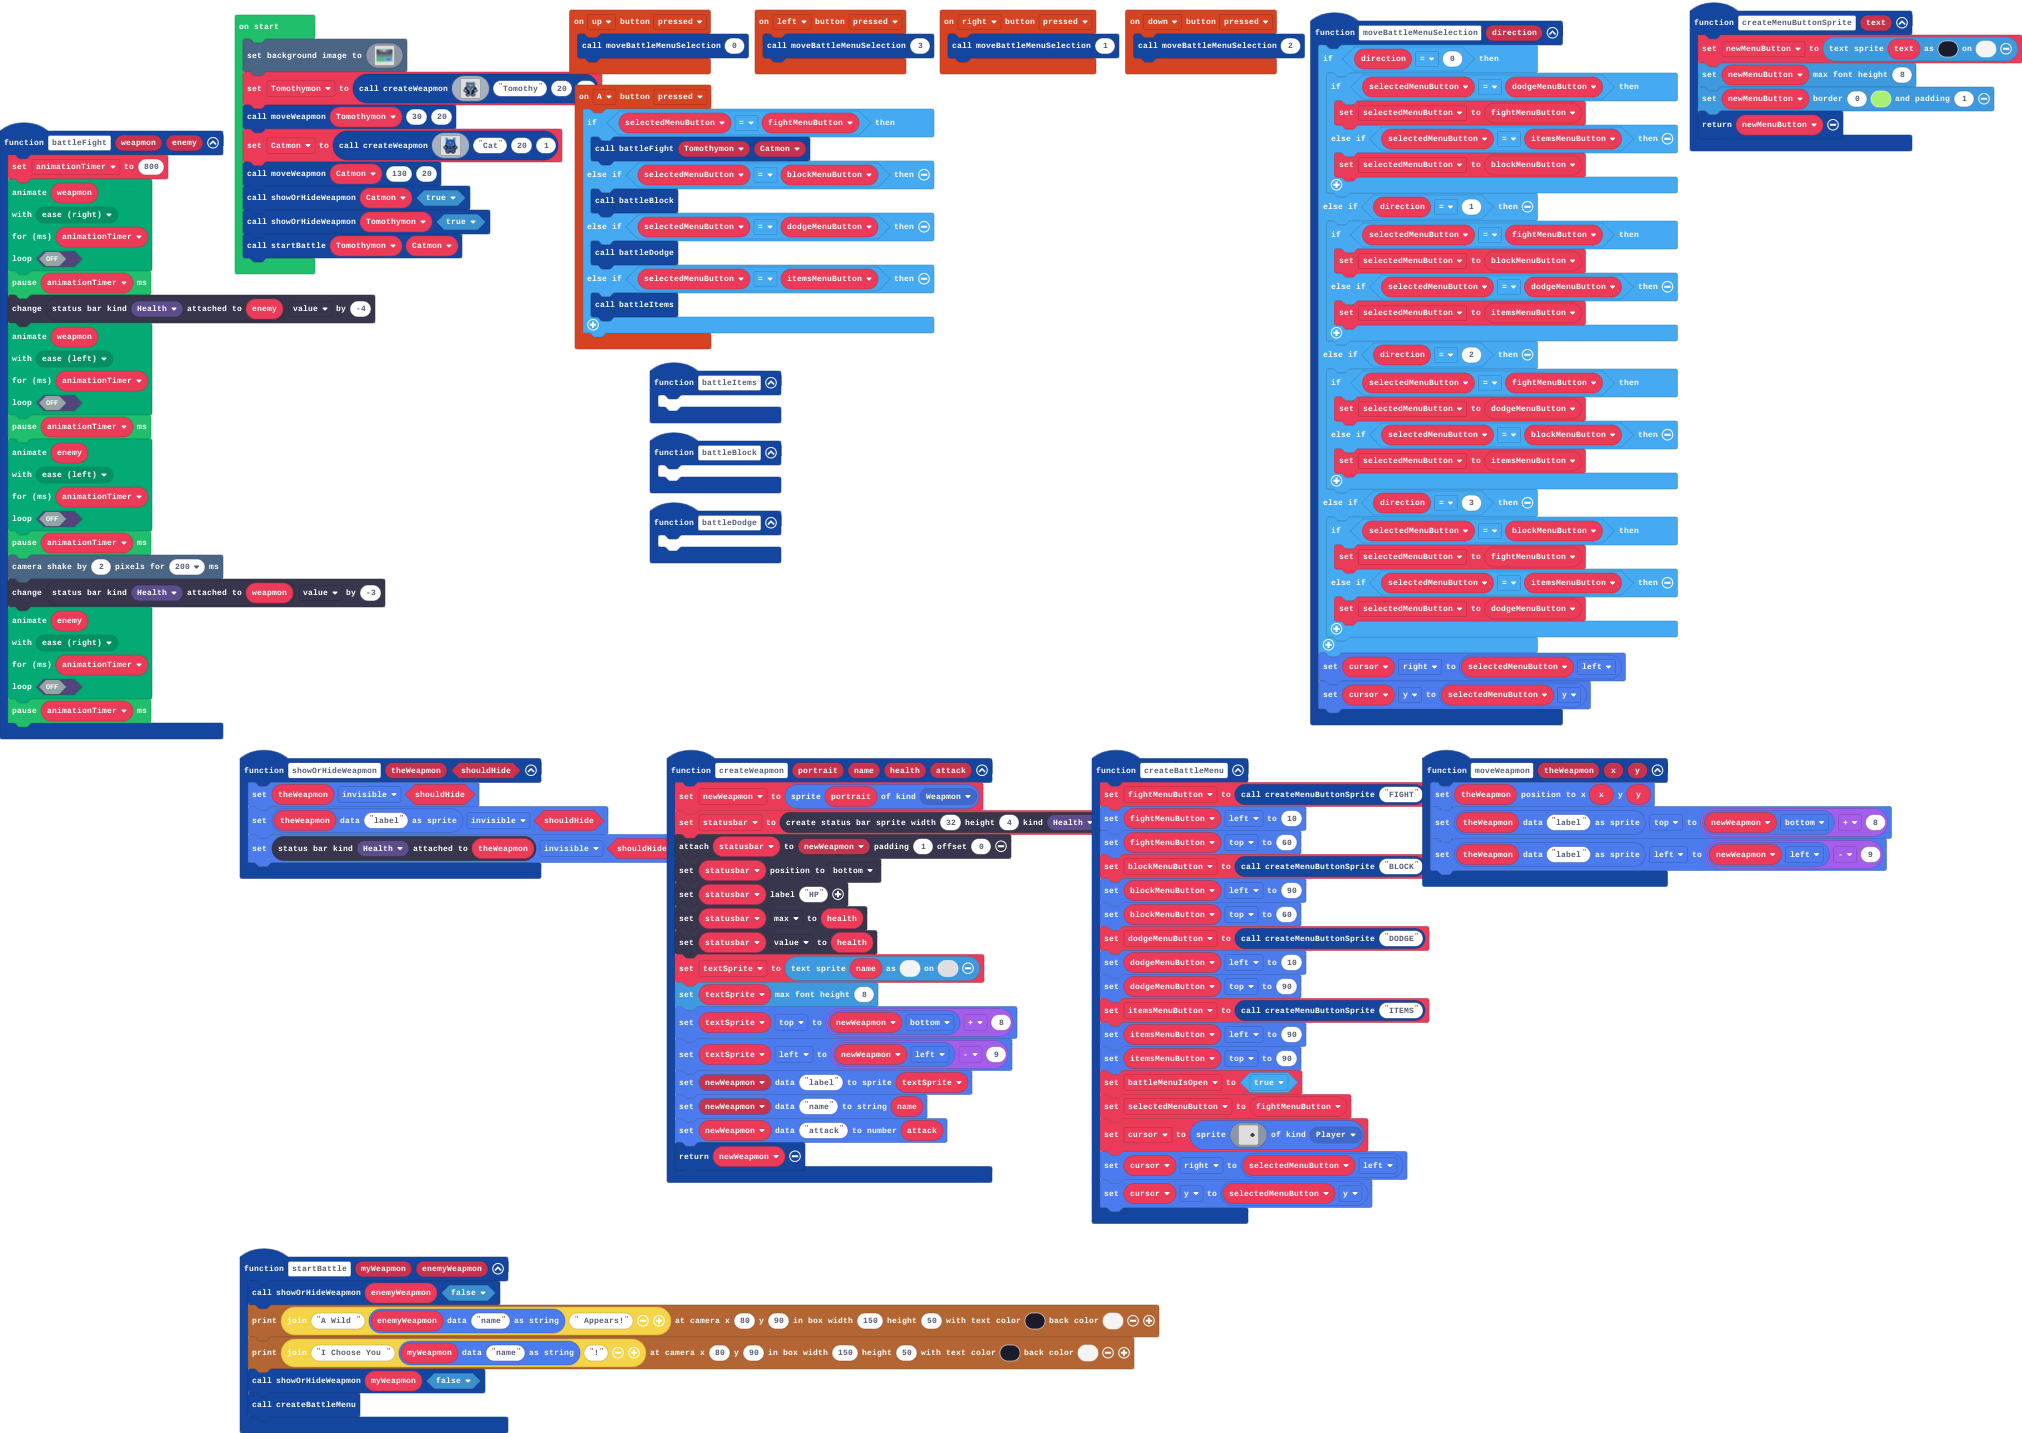
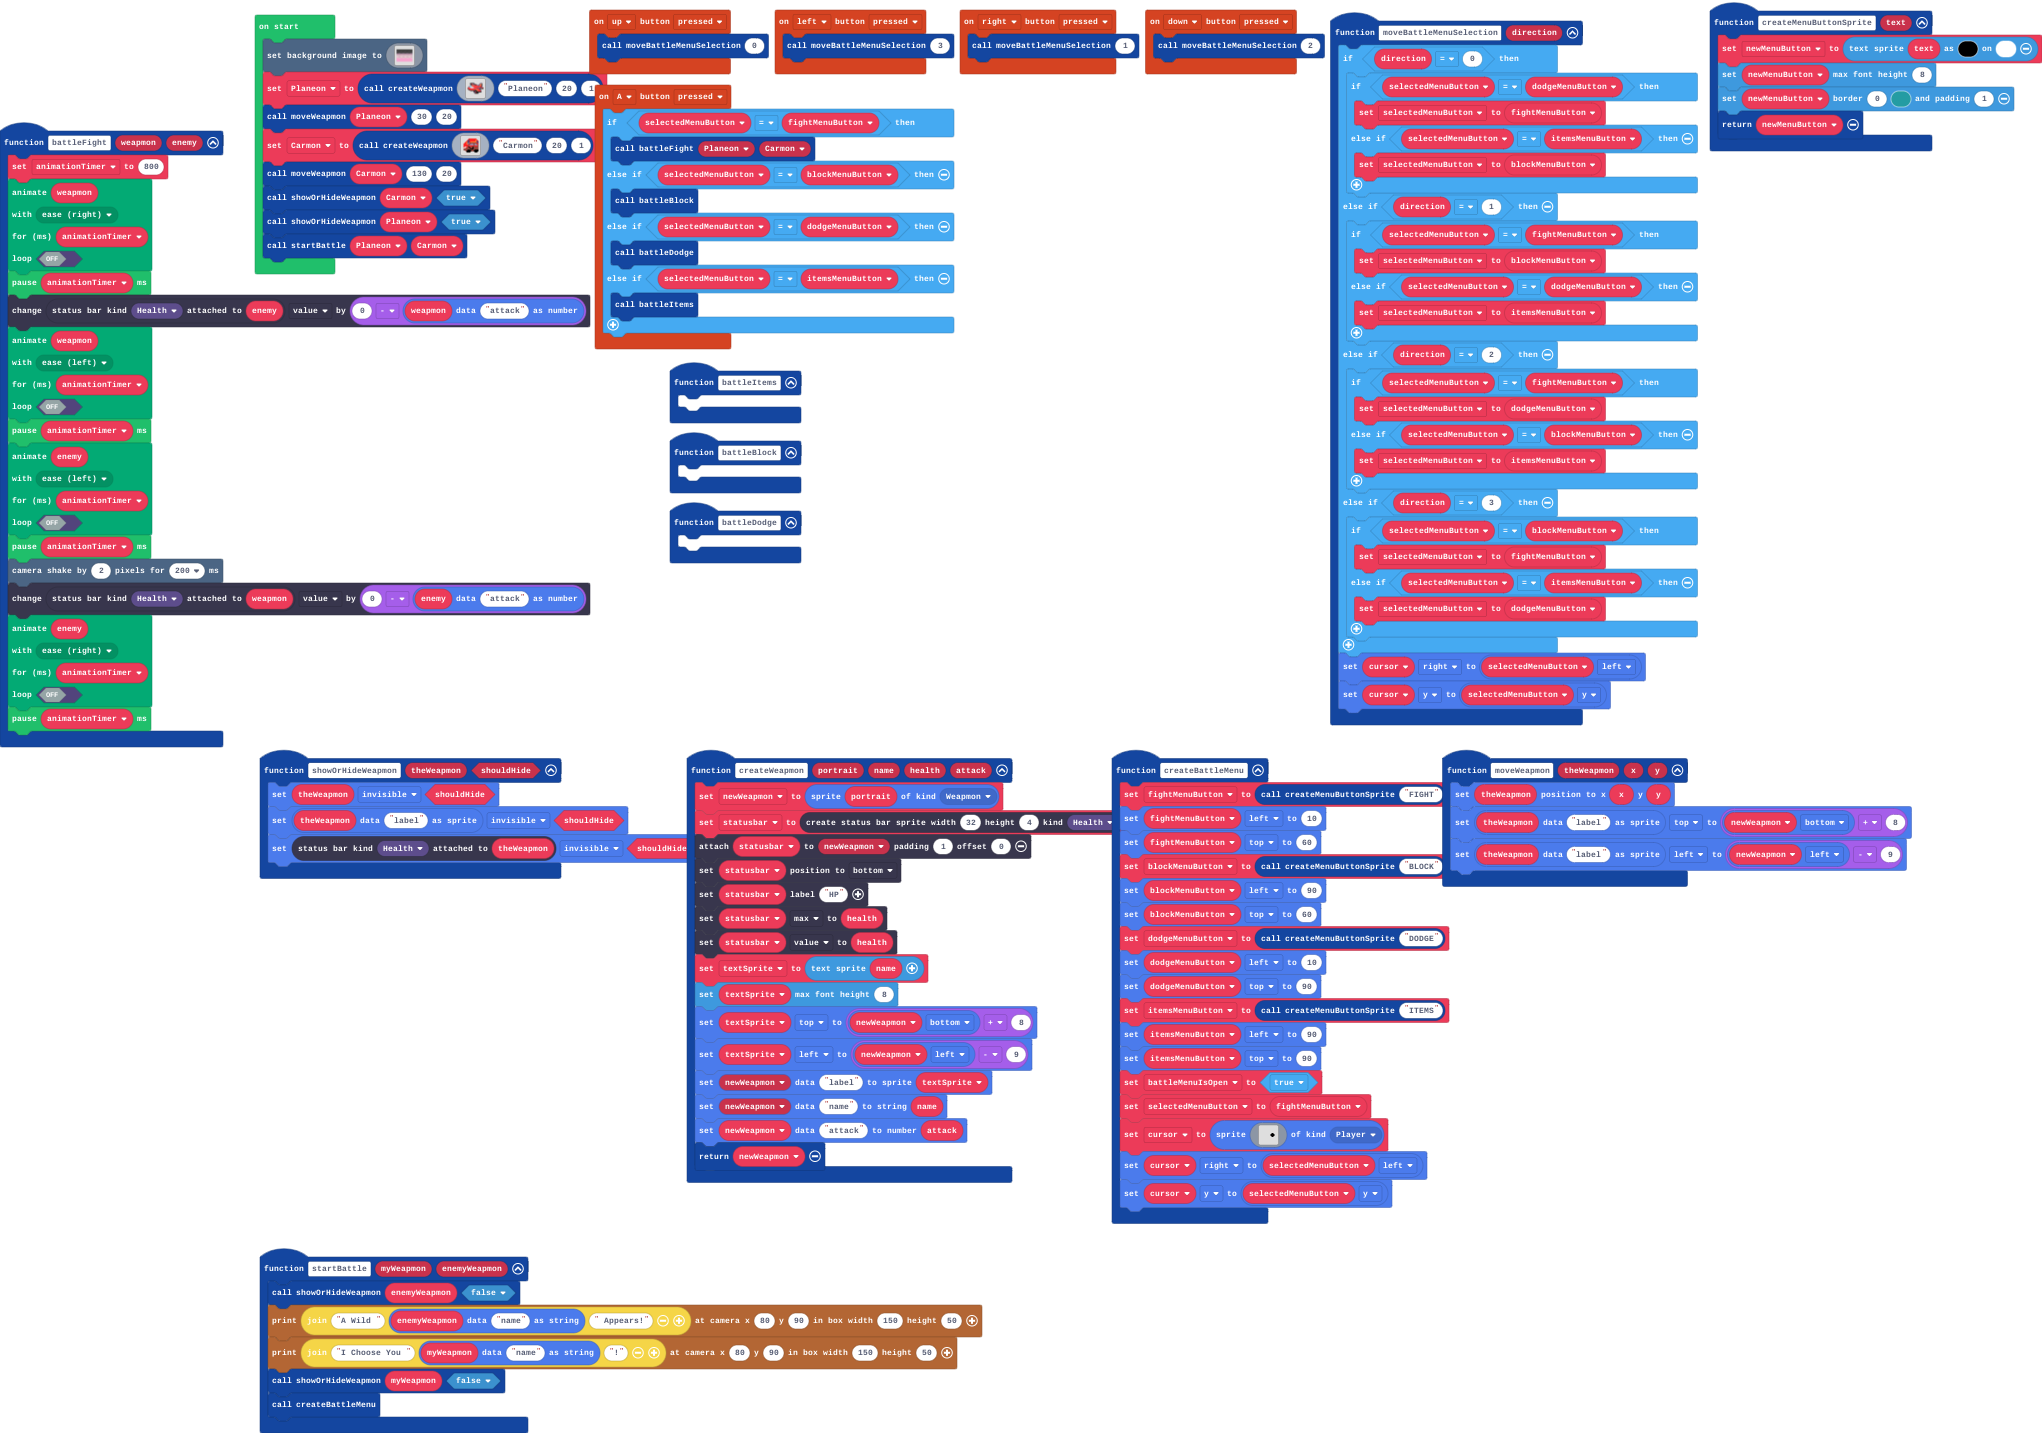
Update main.blocks, main.ts

diff --git a/main.ts b/main.ts
@@ -127,7 +127,7 @@ function battleFight (weapmon: Sprite, enemy: Sprite) {
     false
     )
     pause(animationTimer)
-    statusbars.getStatusBarAttachedTo(StatusBarKind.Health, enemy).value += -4
+    statusbars.getStatusBarAttachedTo(StatusBarKind.Health, enemy).value += 0 - sprites.readDataNumber(weapmon, "attack")
     animation.runMovementAnimation(
     weapmon,
     animation.animationPresets(animation.easeLeft),
@@ -143,7 +143,7 @@ function battleFight (weapmon: Sprite, enemy: Sprite) {
     )
     pause(animationTimer)
     scene.cameraShake(2, 200)
-    statusbars.getStatusBarAttachedTo(StatusBarKind.Health, weapmon).value += -3
+    statusbars.getStatusBarAttachedTo(StatusBarKind.Health, weapmon).value += 0 - sprites.readDataNumber(enemy, "attack")
     animation.runMovementAnimation(
     enemy,
     animation.animationPresets(animation.easeRight),
